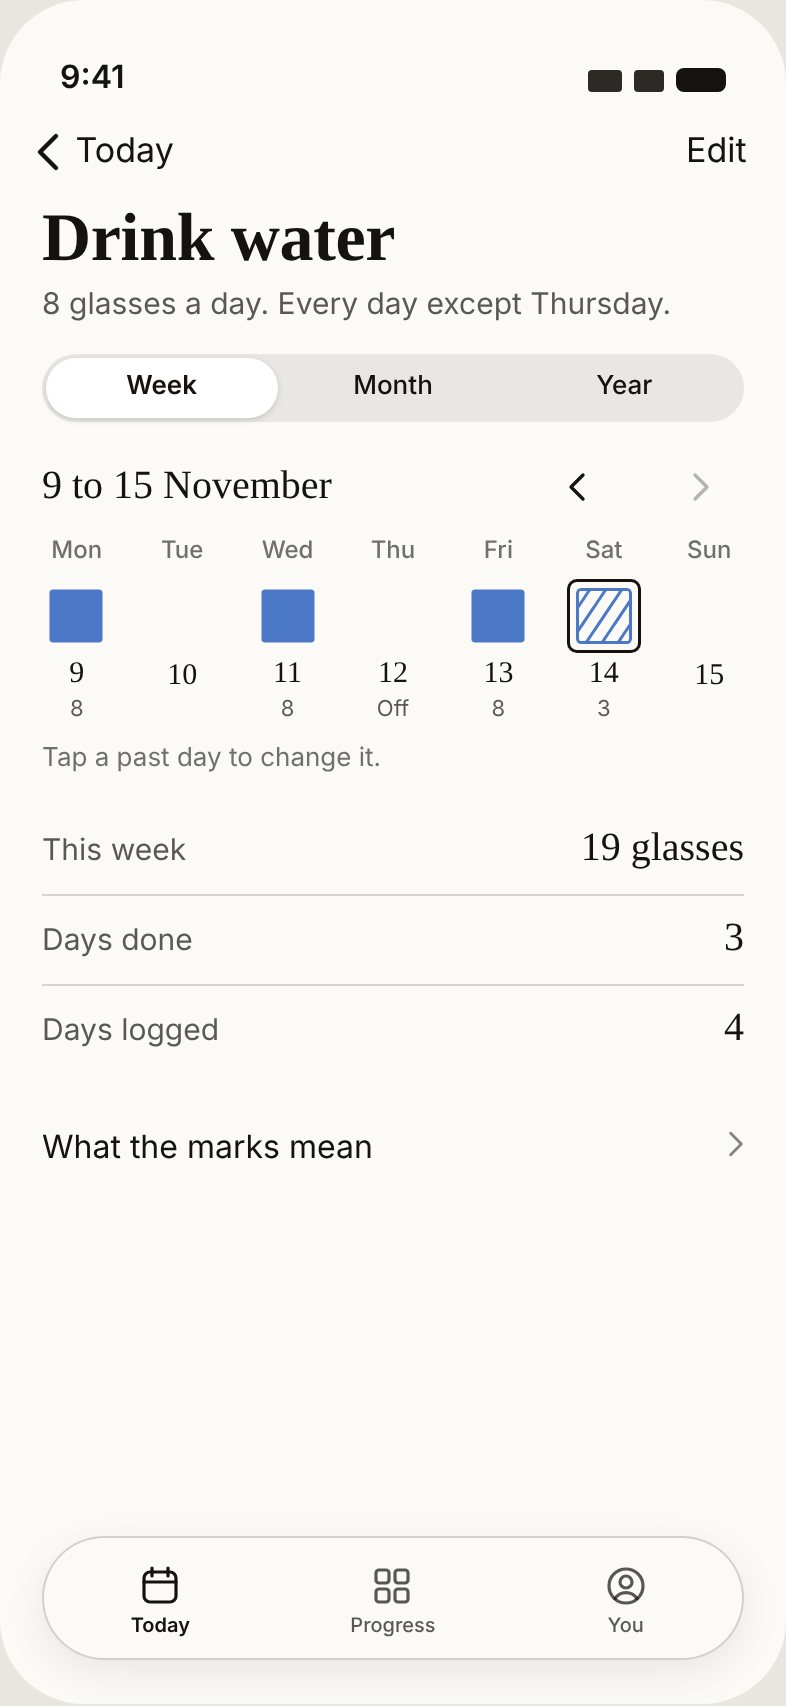
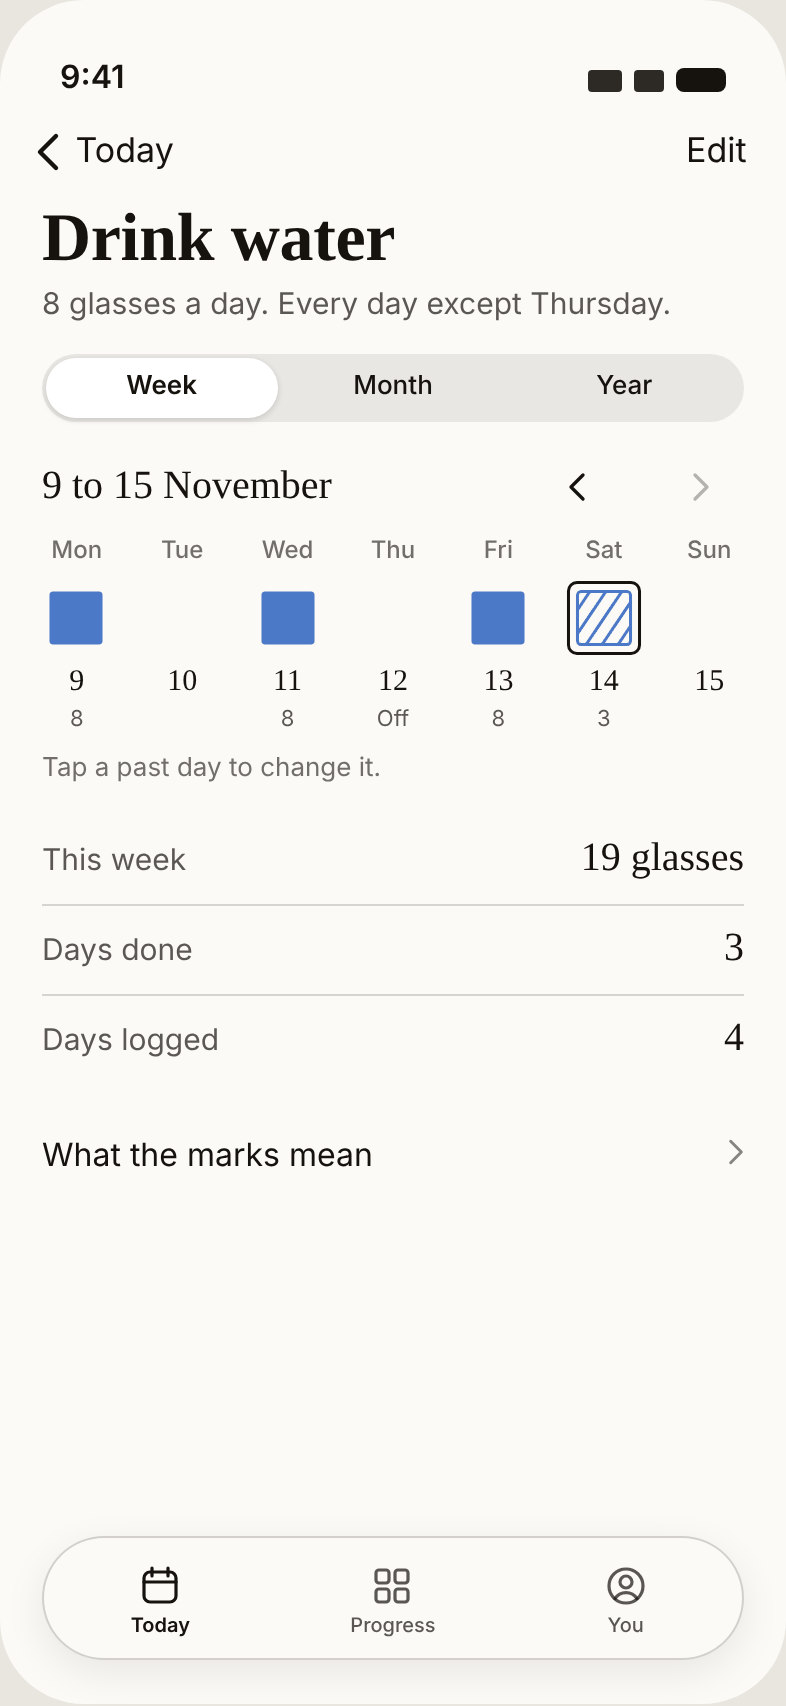
Line up the dates in the week view
Claude-Session: https://claude.ai/code/session_012NdevCAvT4U8qS7nMJ64YM

diff --git a/docs/mockups.html b/docs/mockups.html
@@ -239,9 +239,10 @@ figcaption{font:400 12px/1.4 var(--ui);color:#5a554d;margin-top:8px}
 .undo{position:absolute;left:21px;right:21px;bottom:96px;min-height:48px;border-radius:14px;background:var(--text);color:var(--paper);display:flex;align-items:center;justify-content:space-between;padding:0 16px;font:400 15px/1 var(--ui)}
 .undo b{font-weight:600;text-decoration:underline;text-underline-offset:3px}
 .week{display:grid;grid-template-columns:repeat(7,1fr);margin:6px 12px 0;justify-items:center}
-.wk{display:grid;justify-items:center;gap:1px}
+.wk{display:grid;justify-items:center;align-items:center;grid-template-rows:18px 48px 18px 16px}
+.wk svg{margin:-2px 0}
 .wk span{font:500 12px/1.4 var(--ui);color:var(--text3)}
-.wk b{font-size:15px;margin-top:-4px}
+.wk b{font-size:15px}
 .wk small{font:400 11px/1.3 var(--ui);color:var(--text2);min-height:14px}
 .ymon{display:grid;grid-template-columns:repeat(7,1fr);margin:0 21px 4px;font:500 11px/1 var(--ui);color:var(--text3)}
 .year.y29{grid-template-columns:repeat(29,1fr);gap:2.5px}
